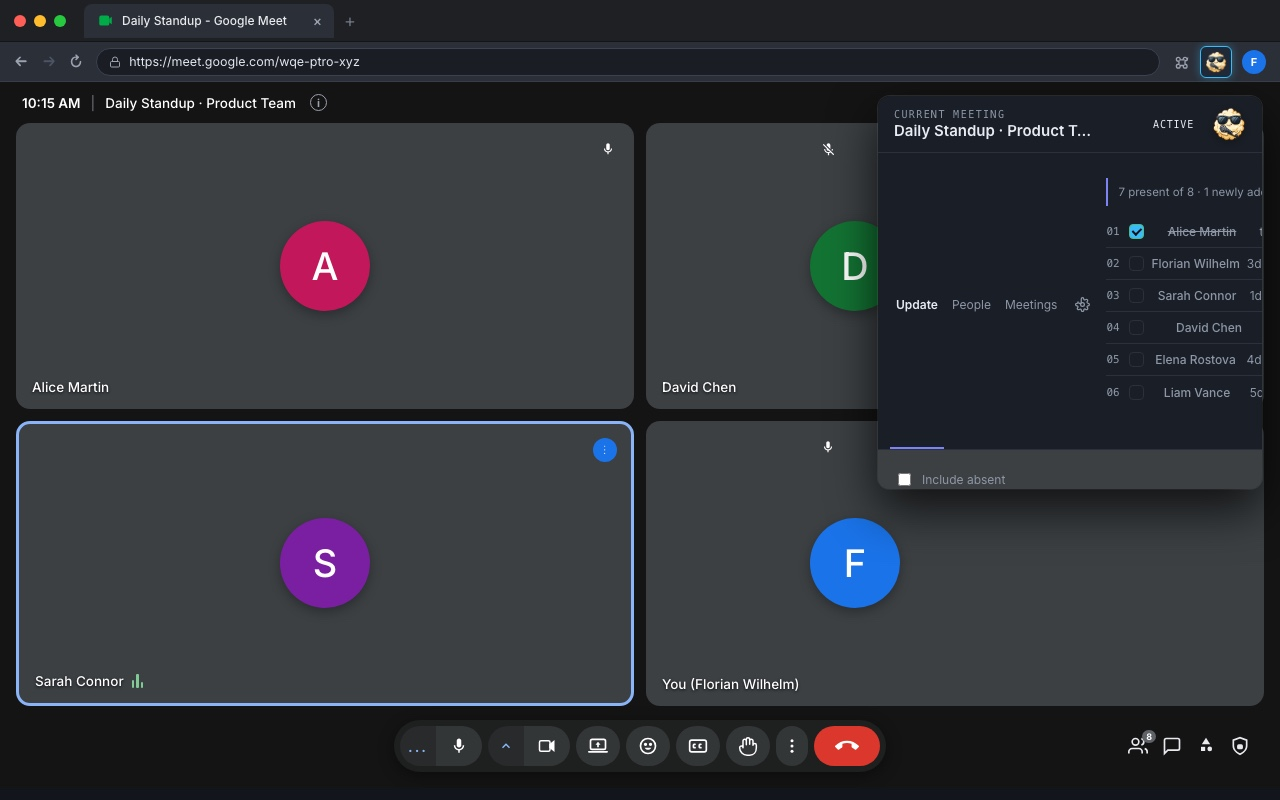
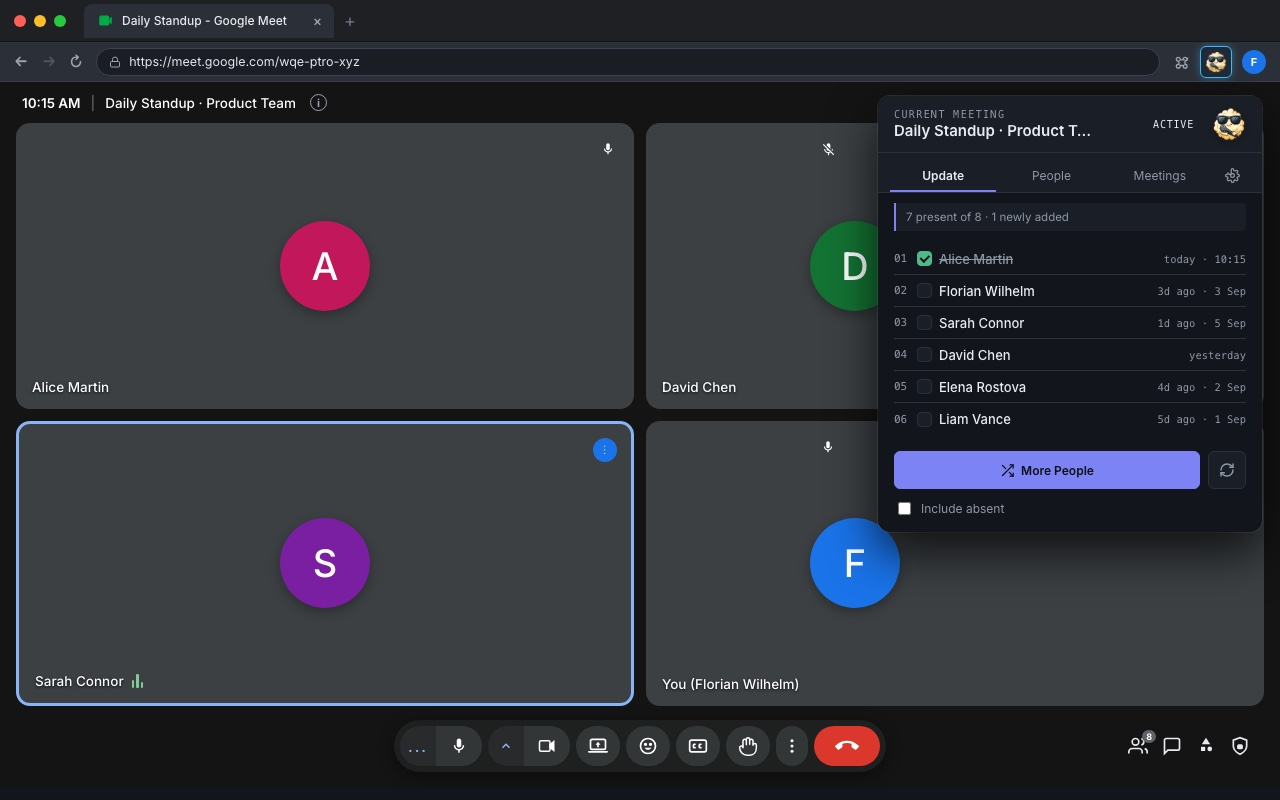
fix: resolve misplaced layout in screenshot 1 store asset

diff --git a/scripts/build_store_pages.js b/scripts/build_store_pages.js
@@ -659,19 +659,24 @@ const s1Popup = `
         <circle cx="12" cy="12" r="3"></circle>
         <path d="M19.4 15a1.65 1.65 0 0 0 .33 1.82l.06.06a2 2 0 0 1 0 2.83 2 2 0 0 1-2.83 0l-.06-.06a1.65 1.65 0 0 0-1.82-.33 1.65 1.65 0 0 0-1 1.51V21a2 2 0 0 1-2 2 2 2 0 0 1-2-2v-.09A1.65 1.65 0 0 0 9 19.4a1.65 1.65 0 0 0-1.82.33l-.06.06a2 2 0 0 1-2.83 0 2 2 0 0 1 0-2.83l.06-.06a1.65 1.65 0 0 0 .33-1.82 1.65 1.65 0 0 0-1.51-1H3a2 2 0 0 1-2-2 2 2 0 0 1 2-2h.09A1.65 1.65 0 0 0 4.6 9a1.65 1.65 0 0 0-.33-1.82l-.06-.06a2 2 0 0 1 0 2.83 2 2 0 0 1 2.83 0l.06.06a1.65 1.65 0 0 0 1.82.33H9a1.65 1.65 0 0 0 1-1.51V3a2 2 0 0 1 2-2 2 2 0 0 1 2 2v.09a1.65 1.65 0 0 0 1 1.51 1.65 1.65 0 0 0 1.82-.33l.06-.06a2 2 0 0 1 2.83 0 2 2 0 0 1 0 2.83l-.06.06a1.65 1.65 0 0 0-.33 1.82V9a1.65 1.65 0 0 0 1.51 1H21a2 2 0 0 1 2 2 2 2 0 0 1-2 2h-.09a1.65 1.65 0 0 0-1.51 1z"></path>
       </svg>
-  <section style="display: block; padding: 0 16px 14px;">
-    <div class="round-presence" style="display: flex; align-items: center; justify-content: space-between; margin: 10px 0 4px;">
+    </button>
+  </nav>
+
+  <section style="display: block; padding-bottom: 14px;">
+    <div class="round-presence">
       <span>7 present of 8 · 1 newly added</span>
     </div>
-    <ol class="list" style="padding: 0; margin: 10px 0;">
+    <ol class="list">
       <!-- Item 1: Alice Martin (Done) -->
-      <li class="item">
+      <li class="item done">
         <span class="pos">01</span>
         <label class="check-item">
-          <input type="checkbox" checked style="accent-color: #38bdf8; background: #38bdf8;" />
+          <input type="checkbox" checked />
         </label>
-        <span class="name" style="text-decoration: line-through; color: var(--muted); flex: 1;">Alice Martin</span>
-        <span class="due-tag due-today" style="margin-left: auto;">today · 10:15</span>
+        <div class="name-wrap">
+          <span class="name">Alice Martin</span>
+        </div>
+        <span class="date">today · 10:15</span>
       </li>
 
       <!-- Item 2: Florian Wilhelm -->
@@ -680,8 +685,10 @@ const s1Popup = `
         <label class="check-item">
           <input type="checkbox" />
         </label>
-        <span class="name" style="flex: 1; font-weight: 500;">Florian Wilhelm</span>
-        <span class="due-tag due-overdue-medium">3d ago · 3 Sep</span>
+        <div class="name-wrap">
+          <span class="name">Florian Wilhelm</span>
+        </div>
+        <span class="date">3d ago · 3 Sep</span>
       </li>
 
       <!-- Item 3: Sarah Connor -->
@@ -690,8 +697,10 @@ const s1Popup = `
         <label class="check-item">
           <input type="checkbox" />
         </label>
-        <span class="name" style="flex: 1; font-weight: 500;">Sarah Connor</span>
-        <span class="due-tag due-overdue-low">1d ago · 5 Sep</span>
+        <div class="name-wrap">
+          <span class="name">Sarah Connor</span>
+        </div>
+        <span class="date">1d ago · 5 Sep</span>
       </li>
 
       <!-- Item 4: David Chen -->
@@ -700,34 +709,40 @@ const s1Popup = `
         <label class="check-item">
           <input type="checkbox" />
         </label>
-        <span class="name" style="flex: 1; font-weight: 500;">David Chen</span>
-        <span class="due-tag due-overdue-low">yesterday</span>
+        <div class="name-wrap">
+          <span class="name">David Chen</span>
+        </div>
+        <span class="date">yesterday</span>
       </li>
 
-      <!-- Item 5: Elena Rostova (Random Name) -->
+      <!-- Item 5: Elena Rostova -->
       <li class="item">
         <span class="pos">05</span>
         <label class="check-item">
           <input type="checkbox" />
         </label>
-        <span class="name" style="flex: 1; font-weight: 500;">Elena Rostova</span>
-        <span class="due-tag due-overdue-high">4d ago · 2 Sep</span>
+        <div class="name-wrap">
+          <span class="name">Elena Rostova</span>
+        </div>
+        <span class="date">4d ago · 2 Sep</span>
       </li>
 
-      <!-- Item 6: Liam Vance (Random Name) -->
+      <!-- Item 6: Liam Vance -->
       <li class="item">
         <span class="pos">06</span>
         <label class="check-item">
           <input type="checkbox" />
         </label>
-        <span class="name" style="flex: 1; font-weight: 500;">Liam Vance</span>
-        <span class="due-tag due-overdue-high">5d ago · 1 Sep</span>
+        <div class="name-wrap">
+          <span class="name">Liam Vance</span>
+        </div>
+        <span class="date">5d ago · 1 Sep</span>
       </li>
     </ol>
 
-    <div class="row" style="display: flex; gap: 8px; margin-top: 14px;">
-      <button class="primary btn-with-icon" style="flex: 1; height: 38px;">
-        <svg width="15" height="15" viewBox="0 0 24 24" fill="none" stroke="currentColor" stroke-width="2">
+    <div class="row" style="margin-top: 10px;">
+      <button class="primary btn-with-icon" style="height: 38px;">
+        <svg width="15" height="15" viewBox="0 0 24 24" fill="none" stroke="currentColor" stroke-width="2" stroke-linecap="round" stroke-linejoin="round">
           <path d="M16 3h5v5"></path>
           <path d="M4 20L21 3"></path>
           <path d="M21 16v5h-5"></path>
@@ -736,8 +751,8 @@ const s1Popup = `
         </svg>
         <span style="font-weight: 600;">More People</span>
       </button>
-      <button class="ghost icon-btn" style="width: 38px; height: 38px;">
-        <svg width="16" height="16" viewBox="0 0 24 24" fill="none" stroke="currentColor" stroke-width="2.2">
+      <button class="ghost icon-btn" style="width: 38px; height: 38px;" title="Refresh attendance" aria-label="Refresh attendance">
+        <svg width="16" height="16" viewBox="0 0 24 24" fill="none" stroke="currentColor" stroke-width="2.2" stroke-linecap="round" stroke-linejoin="round">
           <path d="M3 12a9 9 0 0 1 9-9 9.75 9.75 0 0 1 6.74 2.74L21 8"/>
           <path d="M21 3v5h-5"/>
           <path d="M21 12a9 9 0 0 1-9 9 9.75 9.75 0 0 1-6.74-2.74L3 16"/>
@@ -746,7 +761,7 @@ const s1Popup = `
       </button>
     </div>
 
-    <label class="check" style="display: flex; align-items: center; gap: 8px; margin-top: 10px; font-size: 12px; color: var(--muted);">
+    <label class="check">
       <input type="checkbox" />
       <span>Include absent</span>
     </label>
